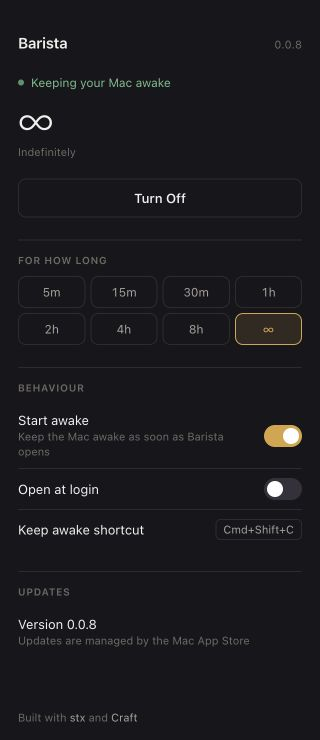
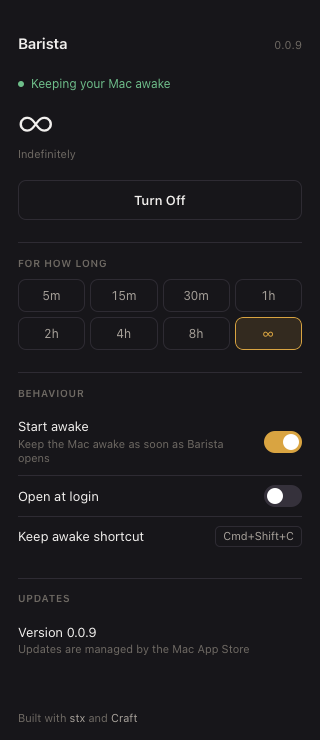
docs: refresh 0.0.9 captures and release verification

diff --git a/docs/releasing.md b/docs/releasing.md
@@ -139,8 +139,9 @@ Store-signed. The PKG is retained as a CI artifact, not offered as a direct
 download. The Store listing has metadata, a published privacy disclosure and
 screenshots. Version 0.0.8 (build 2.1), using published Craft 0.0.340, passed
 the local and CI sandbox checks and was accepted and processed by App Store
-Connect. The build is selected on the listing. ANSSI’s official declaration
-attestation has been uploaded to Apple and is in export-compliance review.
+Connect. Version 0.0.9 (build 6.1) is now selected on the listing. ANSSI’s
+official declaration attestation has been uploaded to Apple and is in
+export-compliance review as of October 25, 2026.
 Upload success does not mean Apple has approved a release.
 
 After upload, Pantry waits for Apple to process the exact build, selects it,
@@ -168,3 +169,13 @@ The 0.0.8 release uses published stx 0.2.693 to prepare its first document
 before opening WebKit. Both local editions pass their native checks with the
 published Pantry Craft 0.0.340 runtime. The GitHub release is published and the
 Store upload was accepted and processed. Export compliance is in Apple’s review.
+
+Version 0.0.9 uses stx 0.2.696, Craft 0.0.346 and Pantry 0.11.128. Its release
+workflow staged the signed, notarized download, qualified the real 0.0.8 → 0.0.9
+updater replacement and native restart on a fresh macOS runner, then promoted
+the release to latest. The installed app also updated through its own controls
+without a manual relaunch. Native readiness, Apple trust, Accessibility, login
+preferences, indefinite awake, timers and two hide/reveal cycles passed.
+The Store workflow generated current artwork, validated and uploaded build 6.1,
+selected it, and recorded `awaiting-export-approval`. The artwork restore path
+was also verified against the retained CI artifact and release commit.

diff --git a/README.md b/README.md
@@ -45,8 +45,10 @@ settings. The GitHub edition includes icon grouping and its verified updater.
 The sandboxed Mac App Store edition excludes grouping because its native
 visibility backend requires a private Apple API. It uses Craft’s public-only
 runtime and native login registration, with Open at Login off until enabled.
-The Store build is uploaded and awaiting Apple’s export-compliance approval
-before App Review submission. Use GitHub Releases for the available download.
+As of October 25, 2026, Store version 0.0.9 is uploaded and awaiting Apple’s
+export-compliance approval before App Review submission. Use GitHub Releases
+for the available download; the automated Store workflow records its current
+phase in [Actions](https://github.com/stacksjs/barista/actions/workflows/store-submission.yml).
 
 Keep-awake controls idle sleep. It does not override manual sleep, lid-close
 behavior, shutdown or macOS power protections. See the [keep-awake guide](./docs/caffeinate.md).

diff --git a/docs/updates.md b/docs/updates.md
@@ -61,3 +61,12 @@ restart, without a manual relaunch. Signing, notarization, saved login/startup
 preferences, Accessibility, shortcut ownership, real power assertions, timers
 and hide/reveal were verified. A check in the installed 0.0.8 app returned
 background progress in 4 ms and then settled to up to date.
+
+The installed 0.0.8 app downloaded 0.0.9 and completed **Install and restart**
+without a manual relaunch. Both old processes exited and the new host and
+native runtime initialized. Signing, notarization, Accessibility, shortcut
+registration, login startup, saved indefinite awake and real power assertions
+passed. A one-hour timer and two native hide/reveal cycles also passed, then
+the app was restored to indefinite awake with the group revealed. The release
+pipeline independently qualified the same 0.0.8 → 0.0.9 artifact bytes before
+making them the latest stable download.
